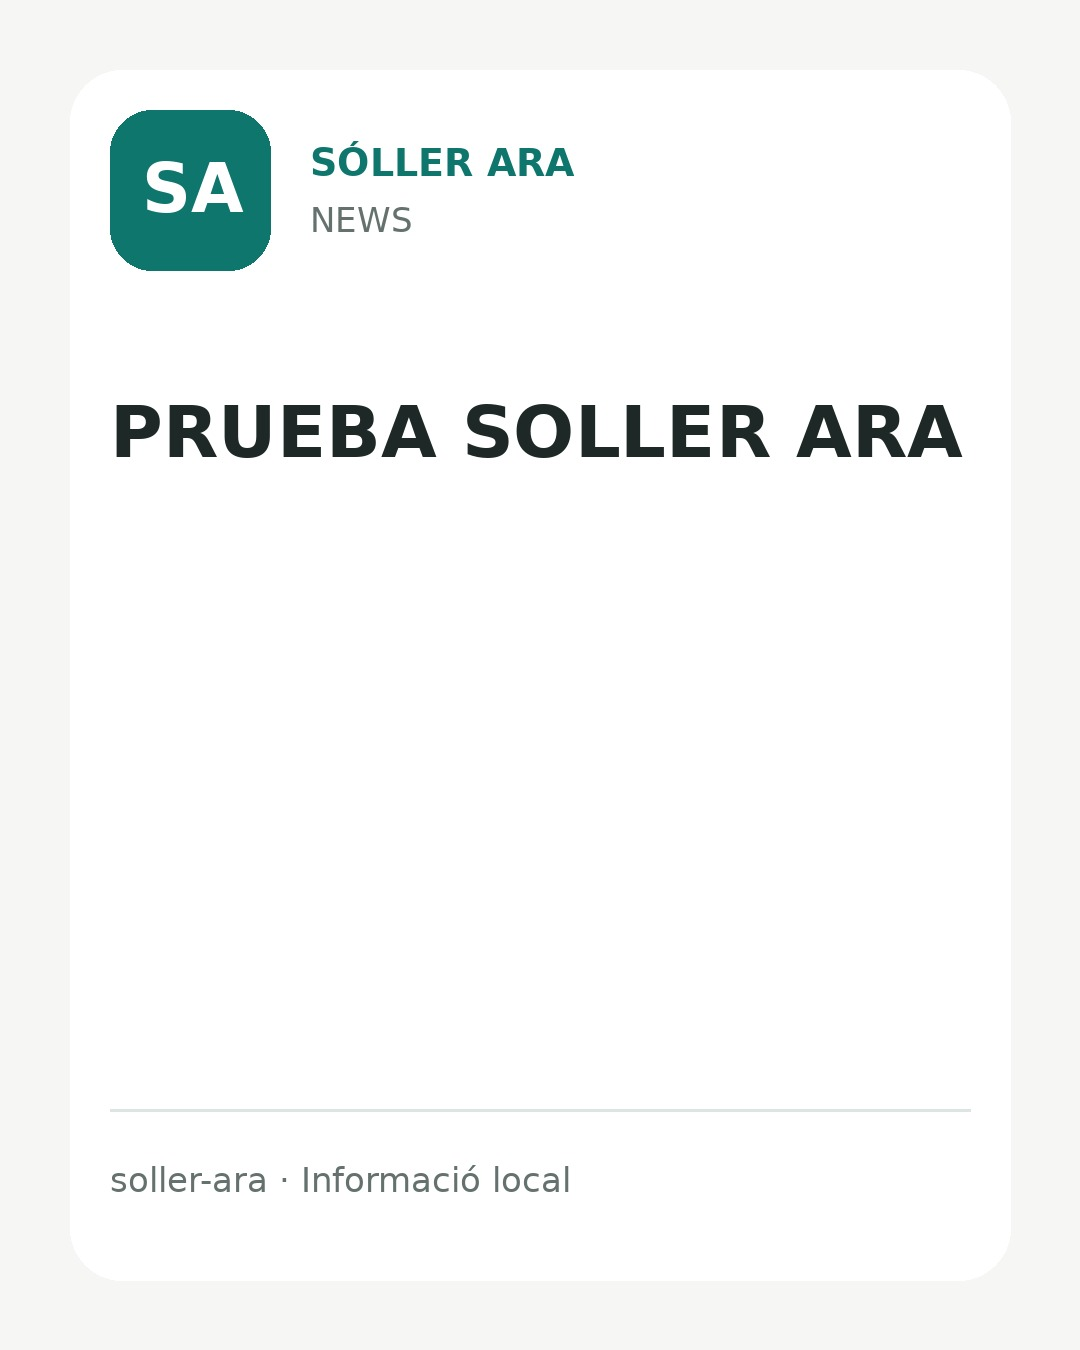
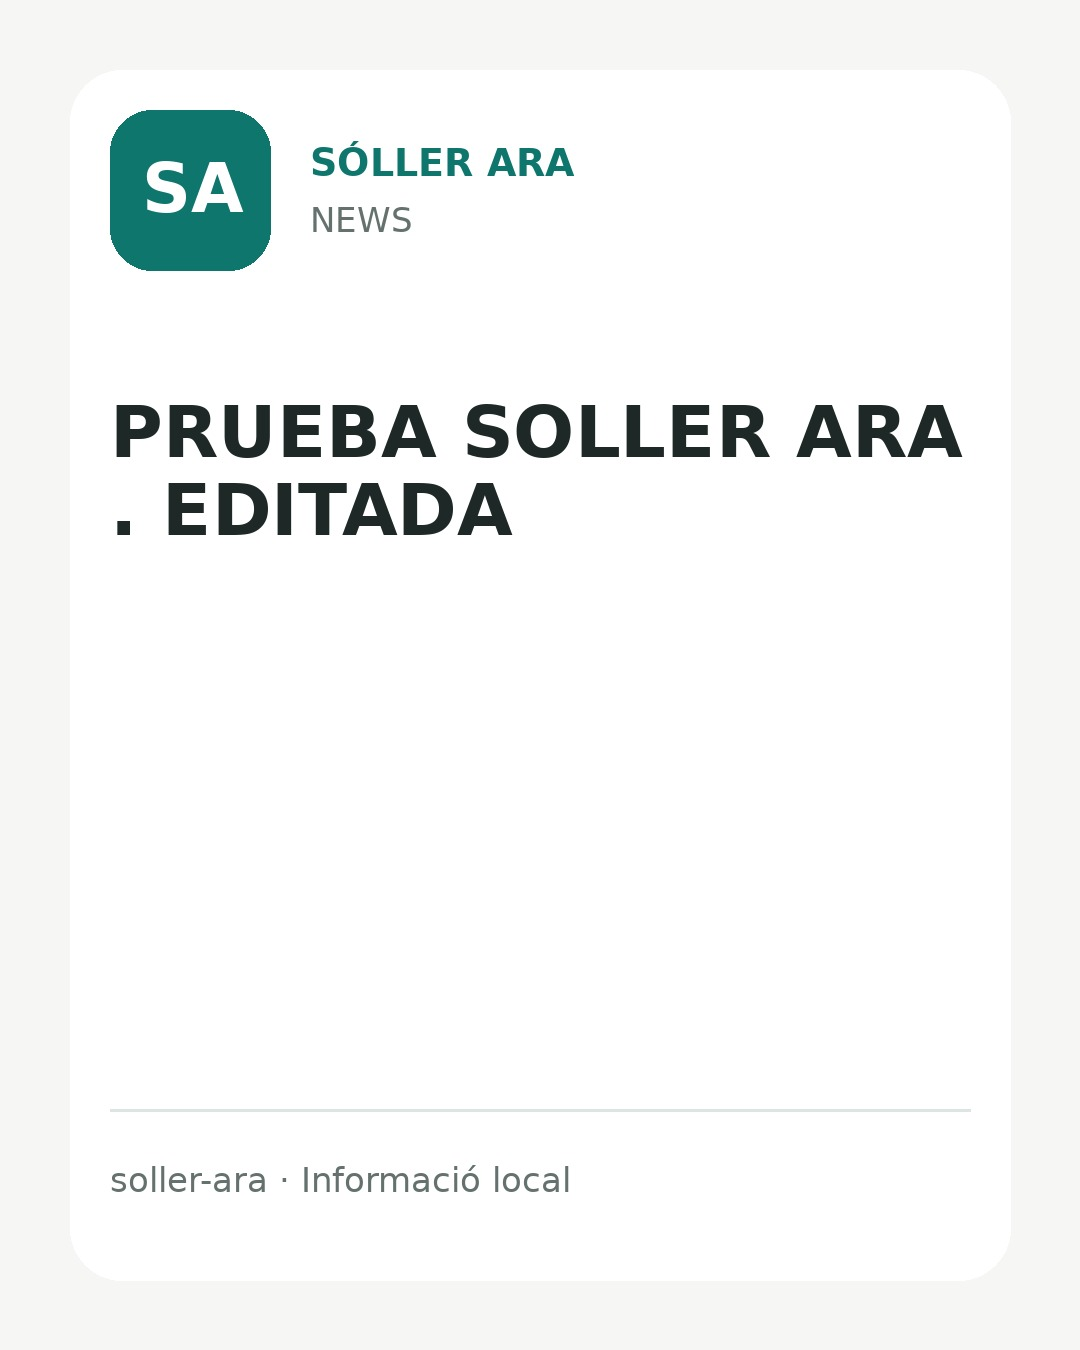
editar: contingut propi de Sóller Ara

Changed region(s): [[0.1528, 0.3422, 0.4889, 0.4044], [0.0917, 0.3733, 0.1222, 0.4044]]

diff --git a/noticies/soller-ara-09f9b36a5945666e.html b/noticies/soller-ara-09f9b36a5945666e.html
@@ -4,20 +4,20 @@
   <meta charset="utf-8" />
   <meta name="viewport" content="width=device-width, initial-scale=1" />
   <meta name="theme-color" content="#0f766e" />
-  <title>PRUEBA SOLLER ARA · Sóller Ara</title>
-  <meta name="description" content="Publicación temporal para comprobar el sistema de creación, edición y eliminación." />
+  <title>PRUEBA SOLLER ARA . EDITADA · Sóller Ara</title>
+  <meta name="description" content="Publicación temporal editada correctamente desde Administración." />
   <link rel="canonical" href="https://soller-ara.github.io/soller-ara/noticies/soller-ara-09f9b36a5945666e.html" />
   <link rel="stylesheet" href="../styles.css?v=0.38" />
   <meta property="og:type" content="article" />
   <meta property="og:site_name" content="Sóller Ara" />
-  <meta property="og:title" content="PRUEBA SOLLER ARA" />
-  <meta property="og:description" content="Publicación temporal para comprobar el sistema de creación, edición y eliminación." />
+  <meta property="og:title" content="PRUEBA SOLLER ARA . EDITADA" />
+  <meta property="og:description" content="Publicación temporal editada correctamente desde Administración." />
   <meta property="og:url" content="https://soller-ara.github.io/soller-ara/noticies/soller-ara-09f9b36a5945666e.html" />
   <meta property="og:image" content="https://soller-ara.github.io/soller-ara/assets/generated/soller-ara-09f9b36a5945666e.jpg" />
   <meta name="twitter:image" content="https://soller-ara.github.io/soller-ara/assets/generated/soller-ara-09f9b36a5945666e.jpg" />
   <meta name="twitter:card" content="summary_large_image" />
-  <meta name="twitter:title" content="PRUEBA SOLLER ARA" />
-  <meta name="twitter:description" content="Publicación temporal para comprobar el sistema de creación, edición y eliminación." />
+  <meta name="twitter:title" content="PRUEBA SOLLER ARA . EDITADA" />
+  <meta name="twitter:description" content="Publicación temporal editada correctamente desde Administración." />
 </head>
 <body>
   <header class="topbar">
@@ -30,10 +30,10 @@
     <a class="legal-back" href="../index.html">← Tornar a Sóller Ara</a>
     <article class="legal-card own-article">
       <p class="eyebrow">Sóller Ara</p>
-      <h1>PRUEBA SOLLER ARA</h1>
+      <h1>PRUEBA SOLLER ARA . EDITADA</h1>
       <p class="article-date">2026-09-17T07:19:29.489964+00:00</p>
       <img class="article-image" src="https://soller-ara.github.io/soller-ara/assets/generated/soller-ara-09f9b36a5945666e.jpg" alt="" />
-      <div class="article-body"><p>Publicación temporal para comprobar el sistema de creación, edición y eliminación.</p></div>
+      <div class="article-body"><p>Publicación temporal editada correctamente desde Administración.</p></div>
       <p><a class="origin-link" href="../index.html">Veure més informació a Sóller Ara →</a></p>
     </article>
   </main>

diff --git a/data/posts.js b/data/posts.js
@@ -171,8 +171,8 @@ window.SOLLER_ARA_DATA = {
       "language": "ca",
       "locality": "Sóller",
       "published_at": "2026-09-17T07:19:29.489964+00:00",
-      "title": "PRUEBA SOLLER ARA",
-      "summary": "Publicación temporal para comprobar el sistema de creación, edición y eliminación.",
+      "title": "PRUEBA SOLLER ARA . EDITADA",
+      "summary": "Publicación temporal editada correctamente desde Administración.",
       "url": "https://soller-ara.github.io/soller-ara/noticies/soller-ara-09f9b36a5945666e.html",
       "content_policy": "owned_content",
       "rights_status": "owned",
